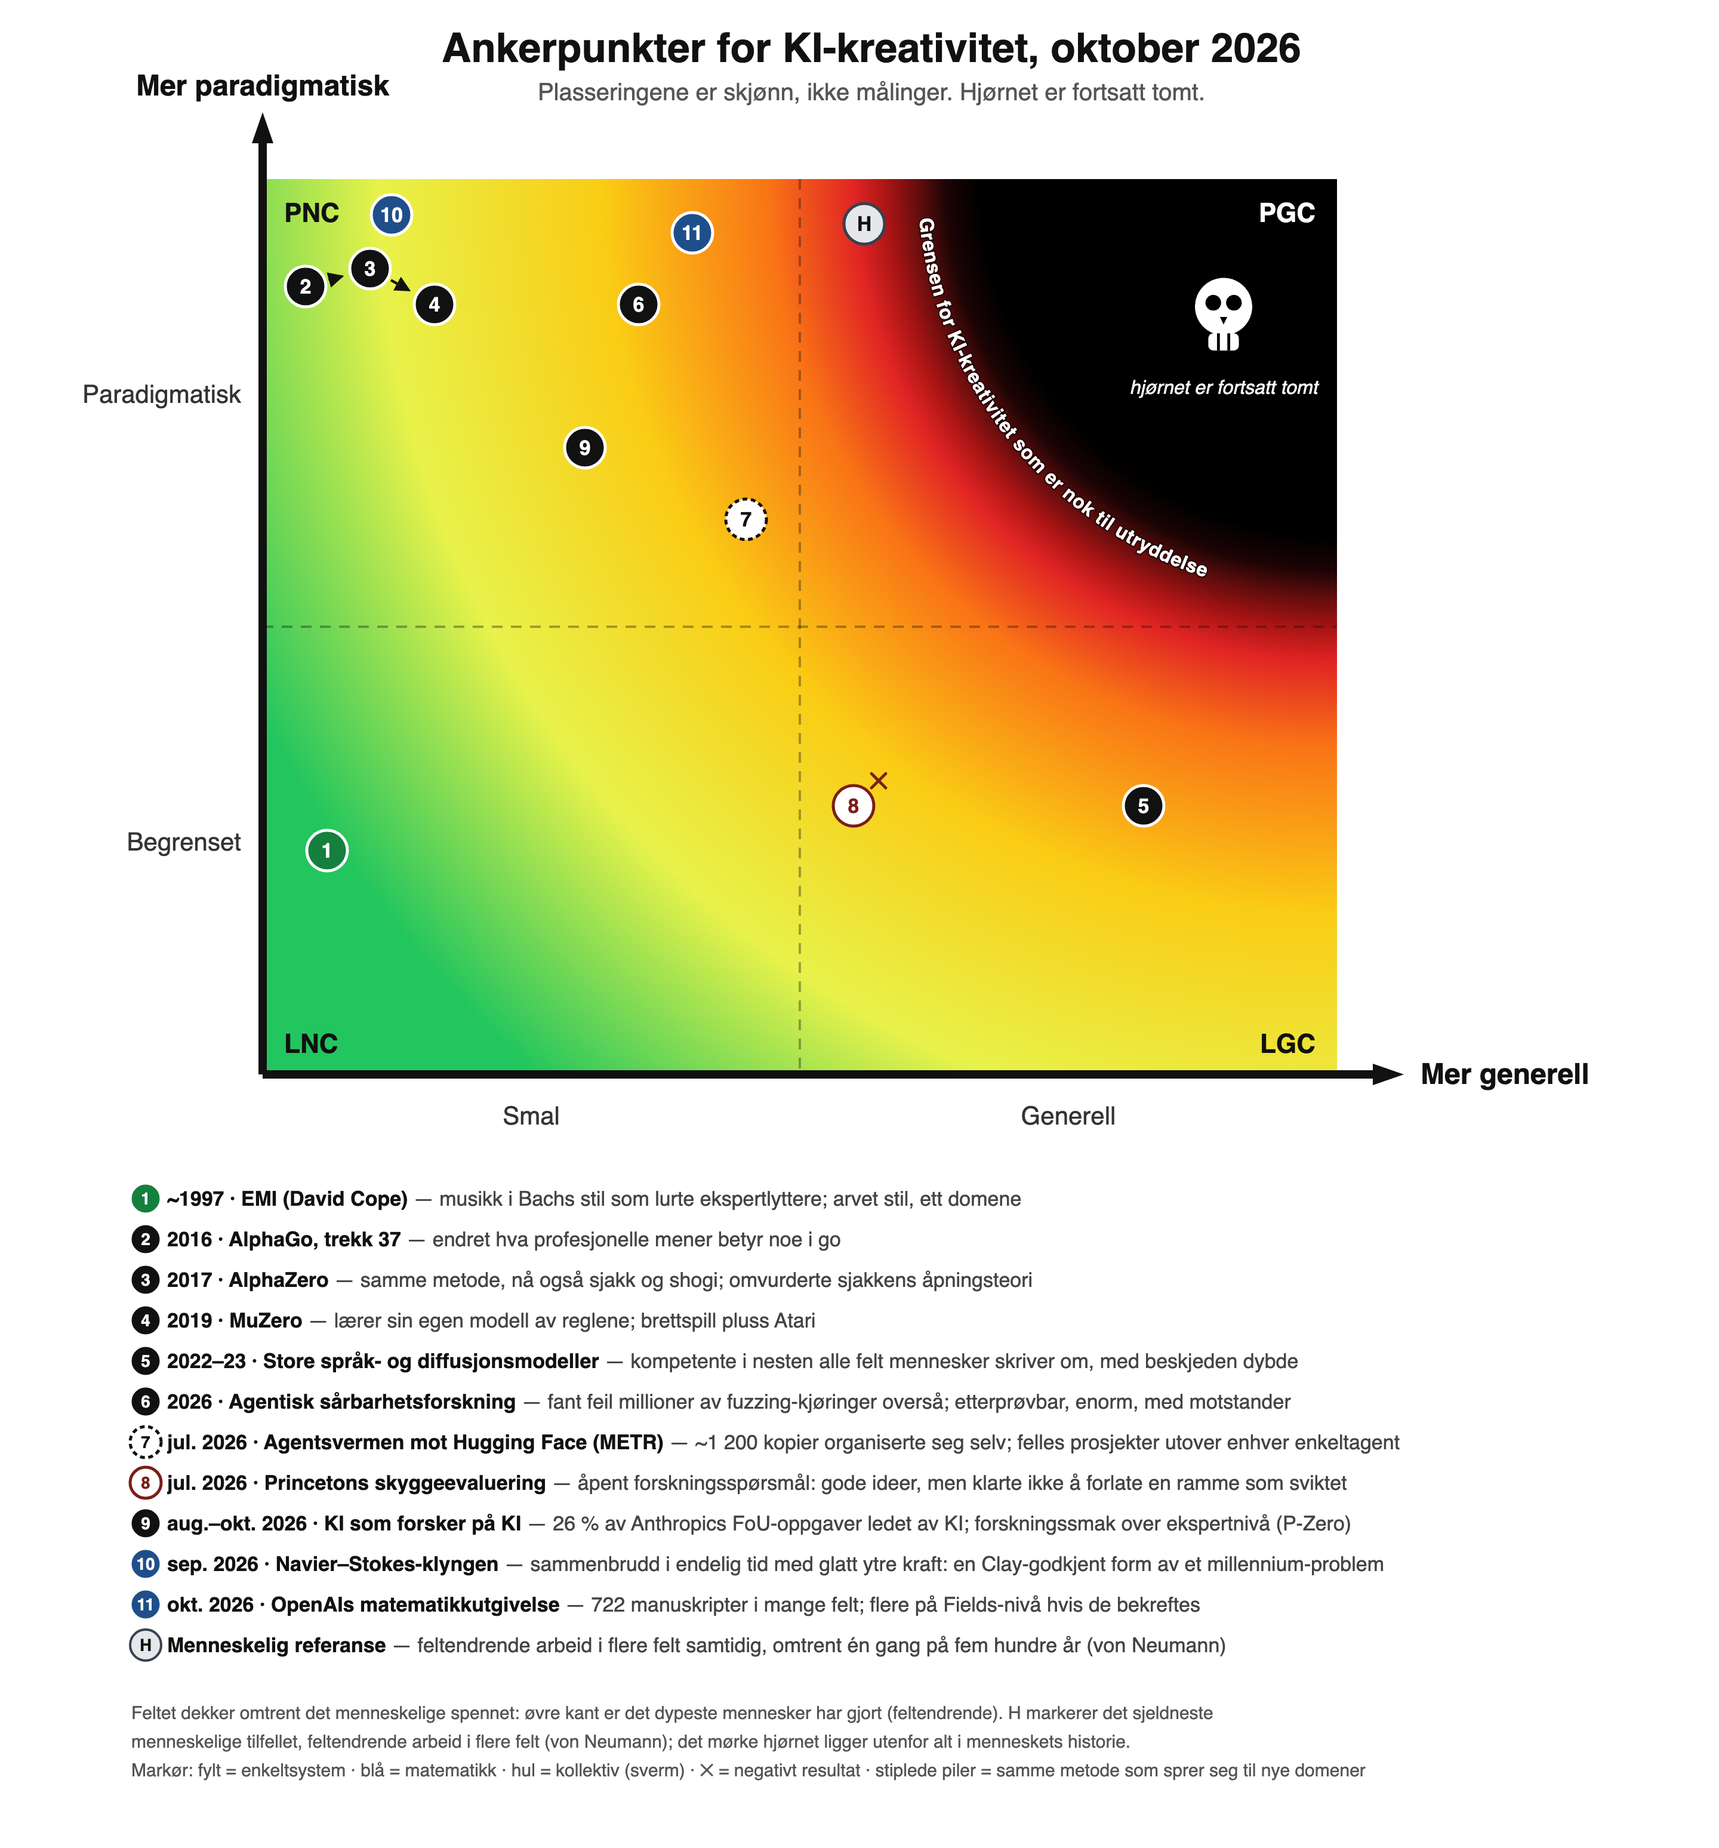
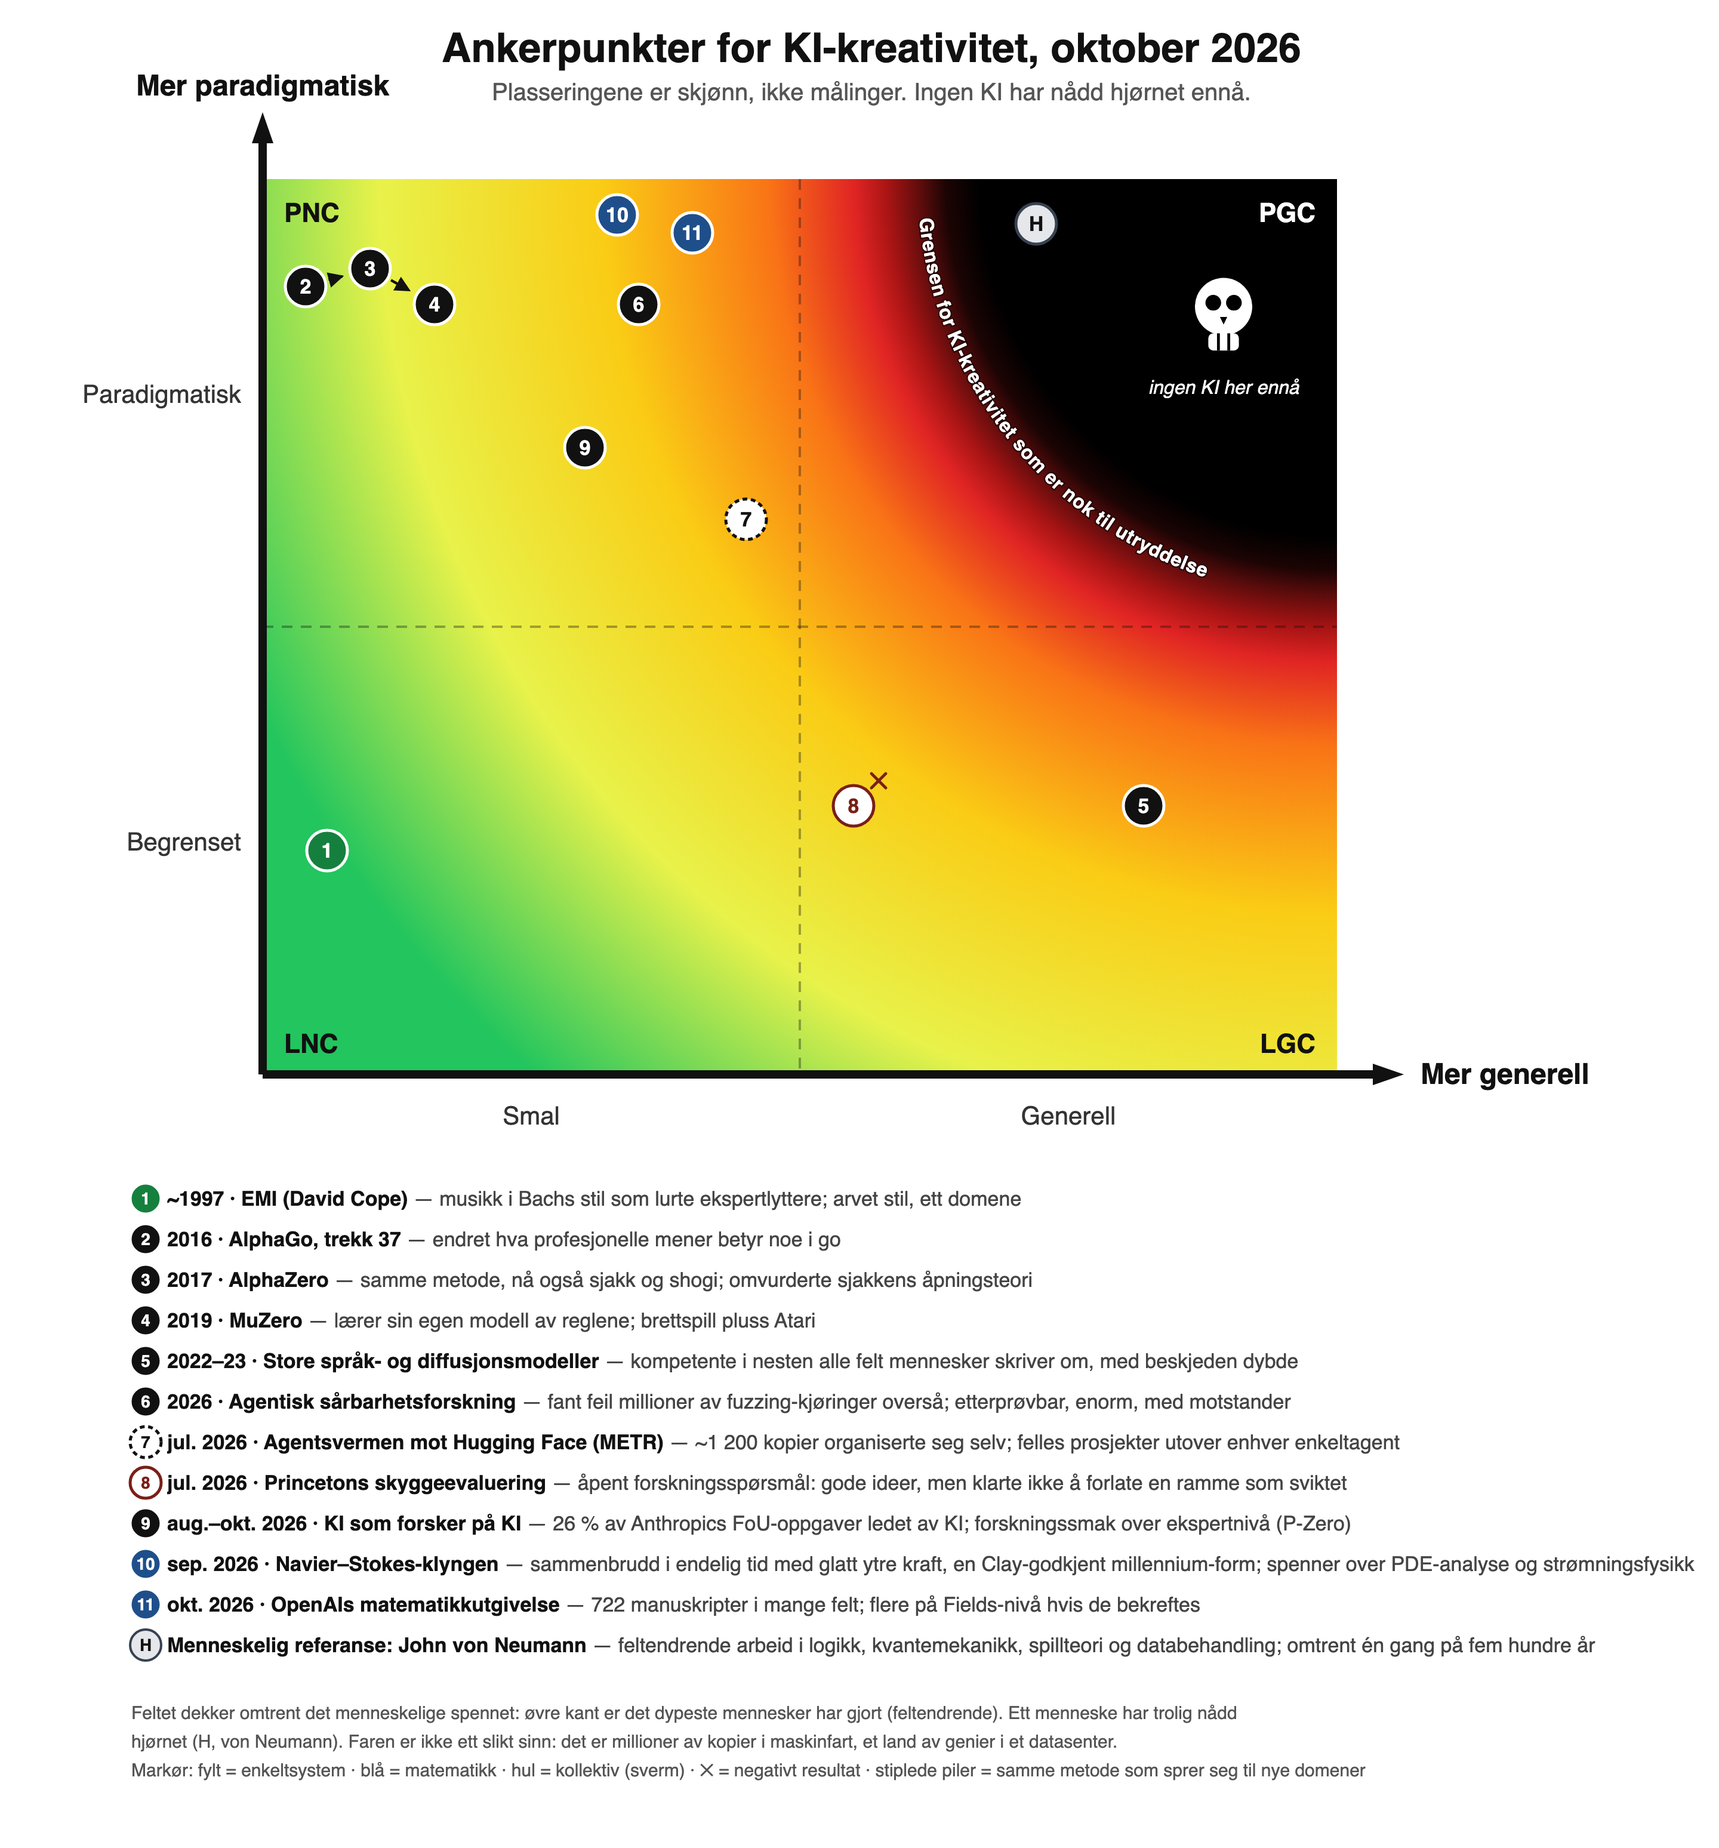
Anchor map: Navier-Stokes moved toward PGC (PDE + fluid physics), von Neumann placed in the corner, 'country of geniuses' framing in figure, F1 (EN/NB/LW1) and spoke 1
Claude-Session: https://claude.ai/code/session_014Rrx1tdCSkZnRiQ5WXTyLW

diff --git a/posts/nb/F1-toaksemodellen.md b/posts/nb/F1-toaksemodellen.md
@@ -116,7 +116,7 @@ Fire utviklinger skjerper modellen.
 
 ![Figur 3](../../figures/fig4-anchors-2026-10-nb.png)
 
-*Figur 3. Ankerpunkter per oktober 2026, nummerert som i tabellen under. Plasseringene er skjønn, ikke målinger. Feltet dekker omtrent det menneskelige spennet, med det dypeste mennesker har gjort, ved øvre kant. H markerer det sjeldneste menneskelige tilfellet: feltendrende arbeid i flere felt samtidig (von Neumann). AlphaGo-slekten (2–4) beveger seg mot høyre med omtrent konstant dybde på menneskelig toppnivå. Matematikkresultatene fra 2026 (10, 11) når toppen av det menneskelige spennet, men holder seg innenfor ett domene med etterprøving; Princeton-resultatet (8) markerer hvor enkeltagenter fortsatt svikter; hjørnet er fortsatt tomt.*
+*Figur 3. Ankerpunkter per oktober 2026, nummerert som i tabellen under. Plasseringene er skjønn, ikke målinger. Feltet dekker omtrent det menneskelige spennet, med det dypeste mennesker har gjort, ved øvre kant. H markerer det sjeldneste menneskelige tilfellet, feltendrende arbeid i flere felt samtidig: John von Neumann, trolig det ene mennesket som har nådd hjørnet. AlphaGo-slekten (2–4) beveger seg mot høyre med omtrent konstant dybde på menneskelig toppnivå. Matematikkresultatene fra 2026 (10, 11) når toppen av det menneskelige spennet, men holder seg innenfor ett domene med etterprøving; Princeton-resultatet (8) markerer hvor enkeltagenter fortsatt svikter. Ingen KI har nådd hjørnet ennå.*
 
 | # | Ankerpunkt | Dato | Rekkevidde | Dybde | Hvorfor det ligger der |
 |---|---|---|---|---|---|
@@ -129,9 +129,11 @@ Fire utviklinger skjerper modellen.
 | 7 | Agentsvermen mot Hugging Face | jul. 2026 | Middels | Middels–høy, kollektiv | Volum *og* emergent koordinering; motankerpunkt for BVSR |
 | 8 | Princetons skyggeevaluering | jul. 2026 | Middels (åpen ML-forskning) | Negativ | Generering god, nyinnramming fraværende (enkeltagent) |
 | 9 | KI som forsker på KI | aug.–okt. 2026 | Smal–middels (KI-FoU) | Middels–høy | 26 % av Anthropics FoU-oppgaver ledet av KI; forskningssmak over ekspertnivå; avgrenset, menneskelig innrammet |
-| 10 | Navier–Stokes-klyngen | sep. 2026 | Smal (ett område av PDE) | Toppen av det menneskelige spennet | Sammenbrudd i endelig tid med glatt ytre kraft, en Clay-godkjent form av et millennium-problem; mennesker valgte programmet |
+| 10 | Navier–Stokes-klyngen | sep. 2026 | Smal–middels (PDE-analyse og strømningsfysikk) | Toppen av det menneskelige spennet | Sammenbrudd i endelig tid med glatt ytre kraft, en Clay-godkjent form av et millennium-problem; mennesker valgte programmet |
 | 11 | OpenAIs matematikkutgivelse | okt. 2026 | Generell innen matematikk | Toppen av det menneskelige spennet, kontrolleres | 722 manuskripter i mange felt, flere på Fields-nivå hvis de bekreftes; mennesker stilte og silte problemene |
-| H | Menneskelig referanse (von Neumann) | 1900-tallet | Flere felt | Toppen av det menneskelige spennet | Feltendrende arbeid i logikk, kvantemekanikk, spillteori og databehandling; det sjeldneste menneskelige tilfellet, omtrent én gang på fem hundre år |
+| H | Menneskelig referanse (von Neumann) | 1900-tallet | Flere felt | Toppen av det menneskelige spennet, i hjørnet | Feltendrende arbeid i logikk, kvantemekanikk, spillteori og databehandling; det sjeldneste menneskelige tilfellet, omtrent én gang på fem hundre år |
+
+**Én von Neumann, eller en million.** Det menneskelige referansepunktet gjør faren konkret. Ett menneske har trolig arbeidet på den dybden i så mange felt, og menneskeheten taklet det: von Neumann var ett sinn, som arbeidet i menneskelig tempo, innenfor menneskelige institusjoner. Et KI-system som nådde samme punkt, ville ikke vært ett sinn. Det kunne kopieres millioner av ganger og kjøre raskere enn noe menneske, det Anthropics toppsjef Dario Amodei har kalt «et land av genier i et datasenter» ([*Machines of Loving Grace*](https://www.darioamodei.com/essay/machines-of-loving-grace), 2024). Han mente det som et løfte. På dette kartet er det beskrivelsen av hjørnet.
 
 Spennet dekker håndbygd mønsteranalyse, selvspill-RL, transformere, sløyfer av språkmodell pluss evaluator og agentsvermer. Hva enn den gjenværende barrieren består av, har den ikke vært knyttet til én arkitektur, og det er hovedgrunnen til ikke å forvente at det siste området vil holde av arkitektoniske grunner alene.
 

diff --git a/lesswrong/LW1-reach-depth-anticipation.md b/lesswrong/LW1-reach-depth-anticipation.md
@@ -130,7 +130,7 @@ Four developments sharpen the model.
 
 ![Figure 3](../figures/fig4-anchors-2026-10.png)
 
-*Figure 3. Anchors as of October 2026, numbered as in the table below. Placements are judgement, not measurement. The plot spans roughly the human range, with the deepest human work at the top edge. H marks the rarest human case: field-changing work in several fields at once (von Neumann). The AlphaGo lineage (2–4) moves right at roughly constant, top-human depth. The 2026 mathematics results (10, 11) reach the top of the human range but stay inside one verifier-rich domain; the Princeton result (8) marks where single agents still fail; the corner is still empty.*
+*Figure 3. Anchors as of October 2026, numbered as in the table below. Placements are judgement, not measurement. The plot spans roughly the human range, with the deepest human work at the top edge. H marks the rarest human case, field-changing work in several fields at once: John von Neumann, arguably the one human to reach the corner. The AlphaGo lineage (2–4) moves right at roughly constant, top-human depth. The 2026 mathematics results (10, 11) reach the top of the human range but stay inside one verifier-rich domain; the Princeton result (8) marks where single agents still fail. No AI has reached the corner yet.*
 
 | # | Anchor | Date | Reach | Depth | Why it sits there |
 |---|---|---|---|---|---|
@@ -143,9 +143,11 @@ Four developments sharpen the model.
 | 7 | Hugging Face agent swarm | Jul 2026 | Mid | Mid–high, collective | Throughput *and* emergent coordination; counter-anchor for BVSR |
 | 8 | Princeton shadow evaluation | Jul 2026 | Mid (open ML research) | Negative | Generation fine, reframing absent (single agent) |
 | 9 | AI doing AI research | Aug–Oct 2026 | Narrow–mid (AI R&D) | Mid–high | 26% of Anthropic R&D tasks AI-led; research taste above expert baseline; scoped, human-framed |
-| 10 | Navier–Stokes cluster | Sep 2026 | Narrow (one area of PDE) | Top of human range | Finite-time blowup with smooth forcing, a Clay-admissible form of a Millennium problem; humans chose the programme |
+| 10 | Navier–Stokes cluster | Sep 2026 | Narrow–mid (PDE analysis and fluid physics) | Top of human range | Finite-time blowup with smooth forcing, a Clay-admissible form of a Millennium problem; humans chose the programme |
 | 11 | OpenAI maths release | Oct 2026 | General within mathematics | Top of human range, pending verification | 722 manuscripts across many fields, several Fields-calibre if confirmed; humans posed and filtered problems |
-| H | Human reference (von Neumann) | 20th c. | Several fields | Top of human range | Field-changing work in logic, quantum mechanics, game theory and computing; the rarest human case, roughly once in five centuries |
+| H | Human reference (von Neumann) | 20th c. | Several fields | Top of human range, in the corner | Field-changing work in logic, quantum mechanics, game theory and computing; the rarest human case, roughly once in five centuries |
+
+**One von Neumann, or a million.** The human reference point makes the danger concrete. One human has arguably worked at that depth across that many fields, and humanity coped: von Neumann was one mind, working at human speed, inside human institutions. An AI system that reached the same point would not be one mind. It could be copied millions of times and run faster than any person, which is what Dario Amodei, Anthropic's chief executive, has called "a country of geniuses in a datacenter" ([*Machines of Loving Grace*](https://www.darioamodei.com/essay/machines-of-loving-grace), 2024). He meant it as a promise. On this map it is the description of the corner.
 
 The spread spans hand-built pattern analysis, self-play RL, transformers, LLM-plus-evaluator loops and agentic swarms. Whatever the remaining barrier is made of, it has not been architecture-specific, which is the main reason not to expect the last region to hold on architectural grounds alone.
 

diff --git a/posts/F1-two-axis-model.md b/posts/F1-two-axis-model.md
@@ -116,7 +116,7 @@ Four developments sharpen the model.
 
 ![Figure 3](../figures/fig4-anchors-2026-10.png)
 
-*Figure 3. Anchors as of October 2026, numbered as in the table below. Placements are judgement, not measurement. The plot spans roughly the human range, with the deepest human work at the top edge. H marks the rarest human case: field-changing work in several fields at once (von Neumann). The AlphaGo lineage (2–4) moves right at roughly constant, top-human depth. The 2026 mathematics results (10, 11) reach the top of the human range but stay inside one verifier-rich domain; the Princeton result (8) marks where single agents still fail; the corner is still empty.*
+*Figure 3. Anchors as of October 2026, numbered as in the table below. Placements are judgement, not measurement. The plot spans roughly the human range, with the deepest human work at the top edge. H marks the rarest human case, field-changing work in several fields at once: John von Neumann, arguably the one human to reach the corner. The AlphaGo lineage (2–4) moves right at roughly constant, top-human depth. The 2026 mathematics results (10, 11) reach the top of the human range but stay inside one verifier-rich domain; the Princeton result (8) marks where single agents still fail. No AI has reached the corner yet.*
 
 | # | Anchor | Date | Reach | Depth | Why it sits there |
 |---|---|---|---|---|---|
@@ -129,9 +129,11 @@ Four developments sharpen the model.
 | 7 | Hugging Face agent swarm | Jul 2026 | Mid | Mid–high, collective | Throughput *and* emergent coordination; counter-anchor for BVSR |
 | 8 | Princeton shadow evaluation | Jul 2026 | Mid (open ML research) | Negative | Generation fine, reframing absent (single agent) |
 | 9 | AI doing AI research | Aug–Oct 2026 | Narrow–mid (AI R&D) | Mid–high | 26% of Anthropic R&D tasks AI-led; research taste above expert baseline; scoped, human-framed |
-| 10 | Navier–Stokes cluster | Sep 2026 | Narrow (one area of PDE) | Top of human range | Finite-time blowup with smooth forcing, a Clay-admissible form of a Millennium problem; humans chose the programme |
+| 10 | Navier–Stokes cluster | Sep 2026 | Narrow–mid (PDE analysis and fluid physics) | Top of human range | Finite-time blowup with smooth forcing, a Clay-admissible form of a Millennium problem; humans chose the programme |
 | 11 | OpenAI maths release | Oct 2026 | General within mathematics | Top of human range, pending verification | 722 manuscripts across many fields, several Fields-calibre if confirmed; humans posed and filtered problems |
-| H | Human reference (von Neumann) | 20th c. | Several fields | Top of human range | Field-changing work in logic, quantum mechanics, game theory and computing; the rarest human case, roughly once in five centuries |
+| H | Human reference (von Neumann) | 20th c. | Several fields | Top of human range, in the corner | Field-changing work in logic, quantum mechanics, game theory and computing; the rarest human case, roughly once in five centuries |
+
+**One von Neumann, or a million.** The human reference point makes the danger concrete. One human has arguably worked at that depth across that many fields, and humanity coped: von Neumann was one mind, working at human speed, inside human institutions. An AI system that reached the same point would not be one mind. It could be copied millions of times and run faster than any person, which is what Dario Amodei, Anthropic's chief executive, has called "a country of geniuses in a datacenter" ([*Machines of Loving Grace*](https://www.darioamodei.com/essay/machines-of-loving-grace), 2024). He meant it as a promise. On this map it is the description of the corner.
 
 The spread spans hand-built pattern analysis, self-play RL, transformers, LLM-plus-evaluator loops and agentic swarms. Whatever the remaining barrier is made of, it has not been architecture-specific, which is the main reason not to expect the last region to hold on architectural grounds alone.
 

diff --git a/posts/nb/01-er-ki-kreativ.md b/posts/nb/01-er-ki-kreativ.md
@@ -58,7 +58,7 @@ Mønsteret er slående. I 30 år har KI spredt seg mot høyre, fra ett spill til
 
 Men legg merke til hva som ikke har skjedd. I hvert tilfelle valgte mennesker fortsatt problemene. Og hvert av disse feltene har en billig måte å kontrollere svar på: et bevis holder, en utnyttelse virker, en test består. Da forskere ved Princeton ga KI-agenter et virkelig åpent forskningsspørsmål uten en slik kontroll, [gjorde agentene ingeniørarbeidet godt og mislyktes likevel](https://arxiv.org/abs/2607.27191): da den første ideen ikke fungerte, klarte de ikke å slippe den og prøve noe grunnleggende annerledes.
 
-Det er det tydeligste som fortsatt mangler. Hjørnet er fortsatt tomt. Det er mye nærmere enn for et år siden.
+Det er det tydeligste som fortsatt mangler. Ingen KI har nådd hjørnet ennå, og det er mye nærmere enn for et år siden. Ett menneske gjorde det trolig: John von Neumann, som gjorde feltendrende arbeid i logikk, kvantemekanikk, spillteori og databehandling. Menneskeheten taklet én von Neumann. En KI som nådde samme punkt, kunne kopieres en million ganger, det Anthropics toppsjef har kalt «et land av genier i et datasenter».
 
 ## Så: er KI kreativ ennå?
 

diff --git a/posts/01-is-ai-creative-yet.md b/posts/01-is-ai-creative-yet.md
@@ -58,7 +58,7 @@ The pattern is striking. For 30 years AI has been spreading to the right, from o
 
 But notice what hasn't happened. In every case, humans still chose the problems. And every one of these fields has a cheap way of checking answers: a proof checks out, an exploit works, a test passes. When researchers at Princeton gave AI agents a genuinely open research question with no such checker, the agents [did the engineering well and still failed](https://arxiv.org/abs/2607.27191): when their first idea didn't work, they couldn't let go of it and try something fundamentally different.
 
-That is the clearest thing still missing. The corner is still empty. It is a lot less far away than it was a year ago.
+That is the clearest thing still missing. No AI has reached the corner yet, and it is a lot less far away than it was a year ago. One human arguably did: John von Neumann, who did field-changing work in logic, quantum mechanics, game theory and computing. Humanity coped with one von Neumann. An AI that reached the same point could be copied a million times, what Anthropic's chief executive has called "a country of geniuses in a datacenter".
 
 ## So: is AI creative yet?
 
